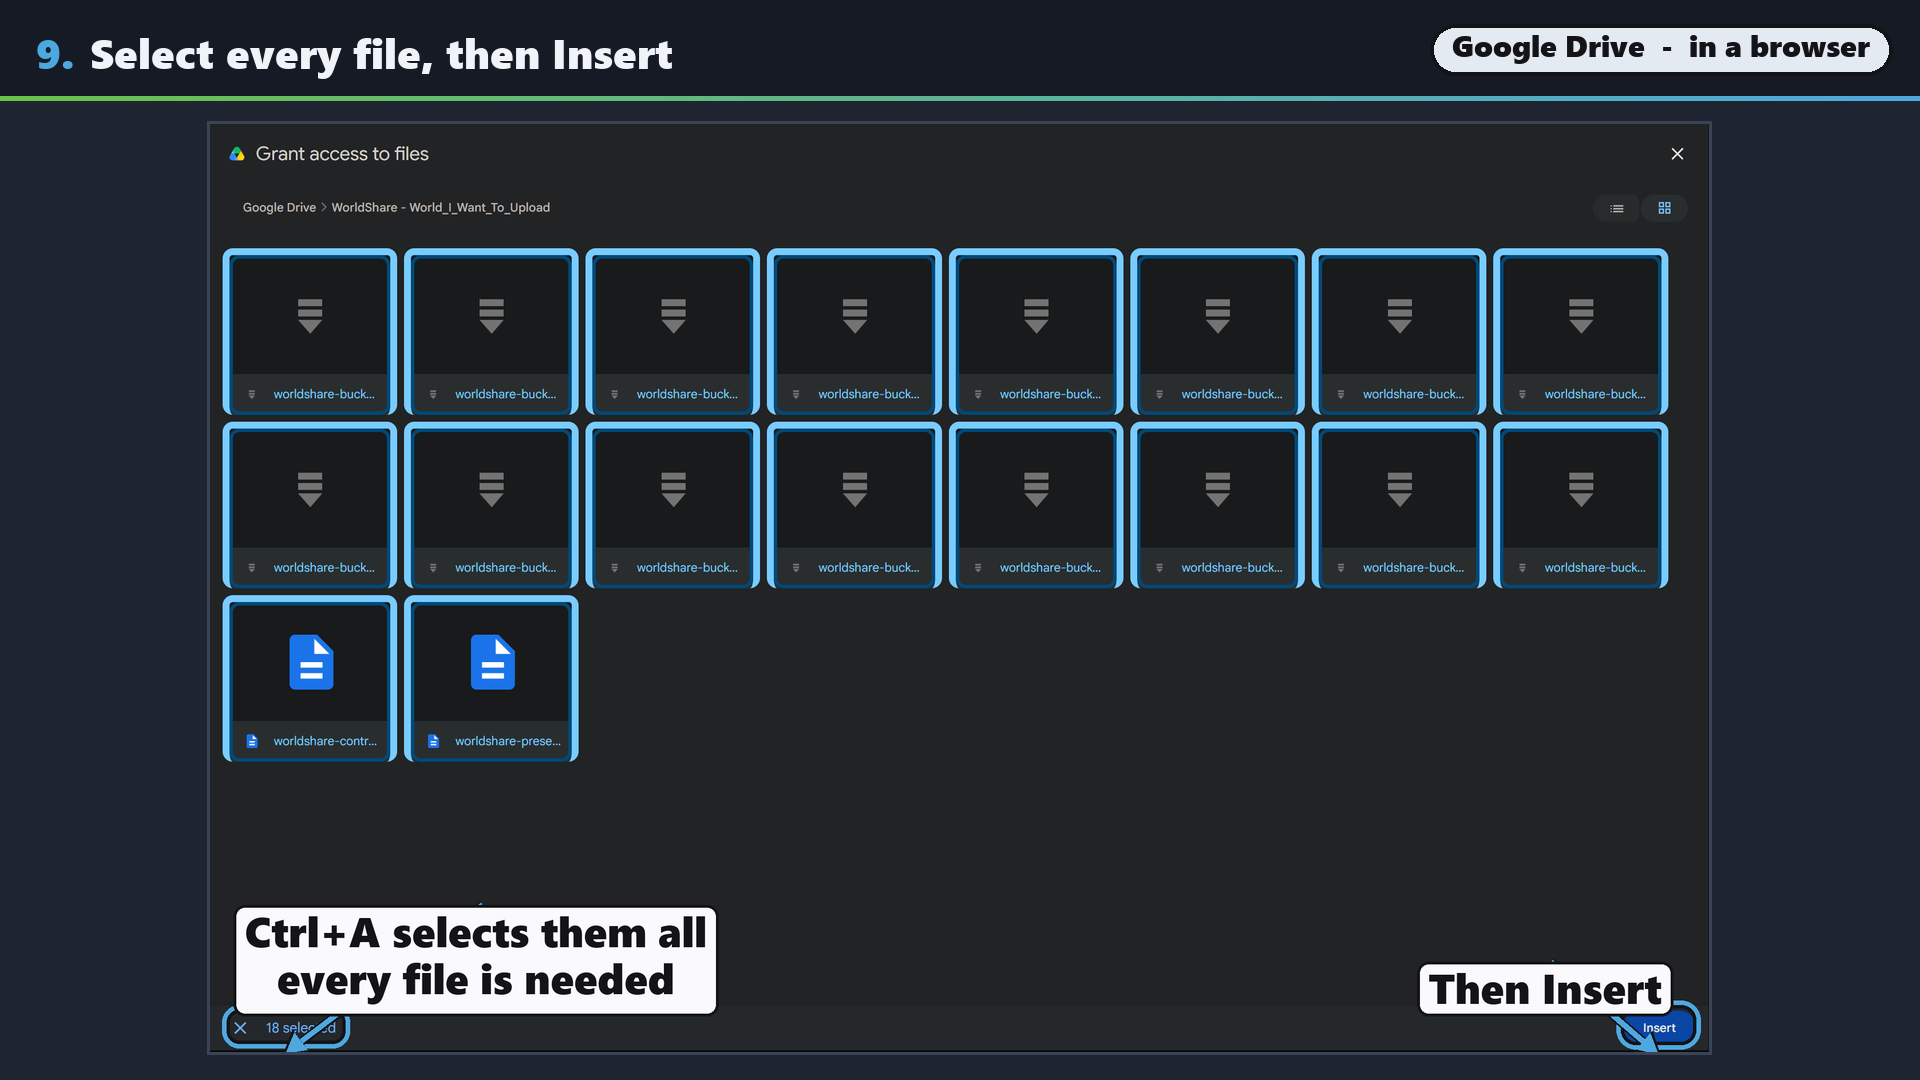
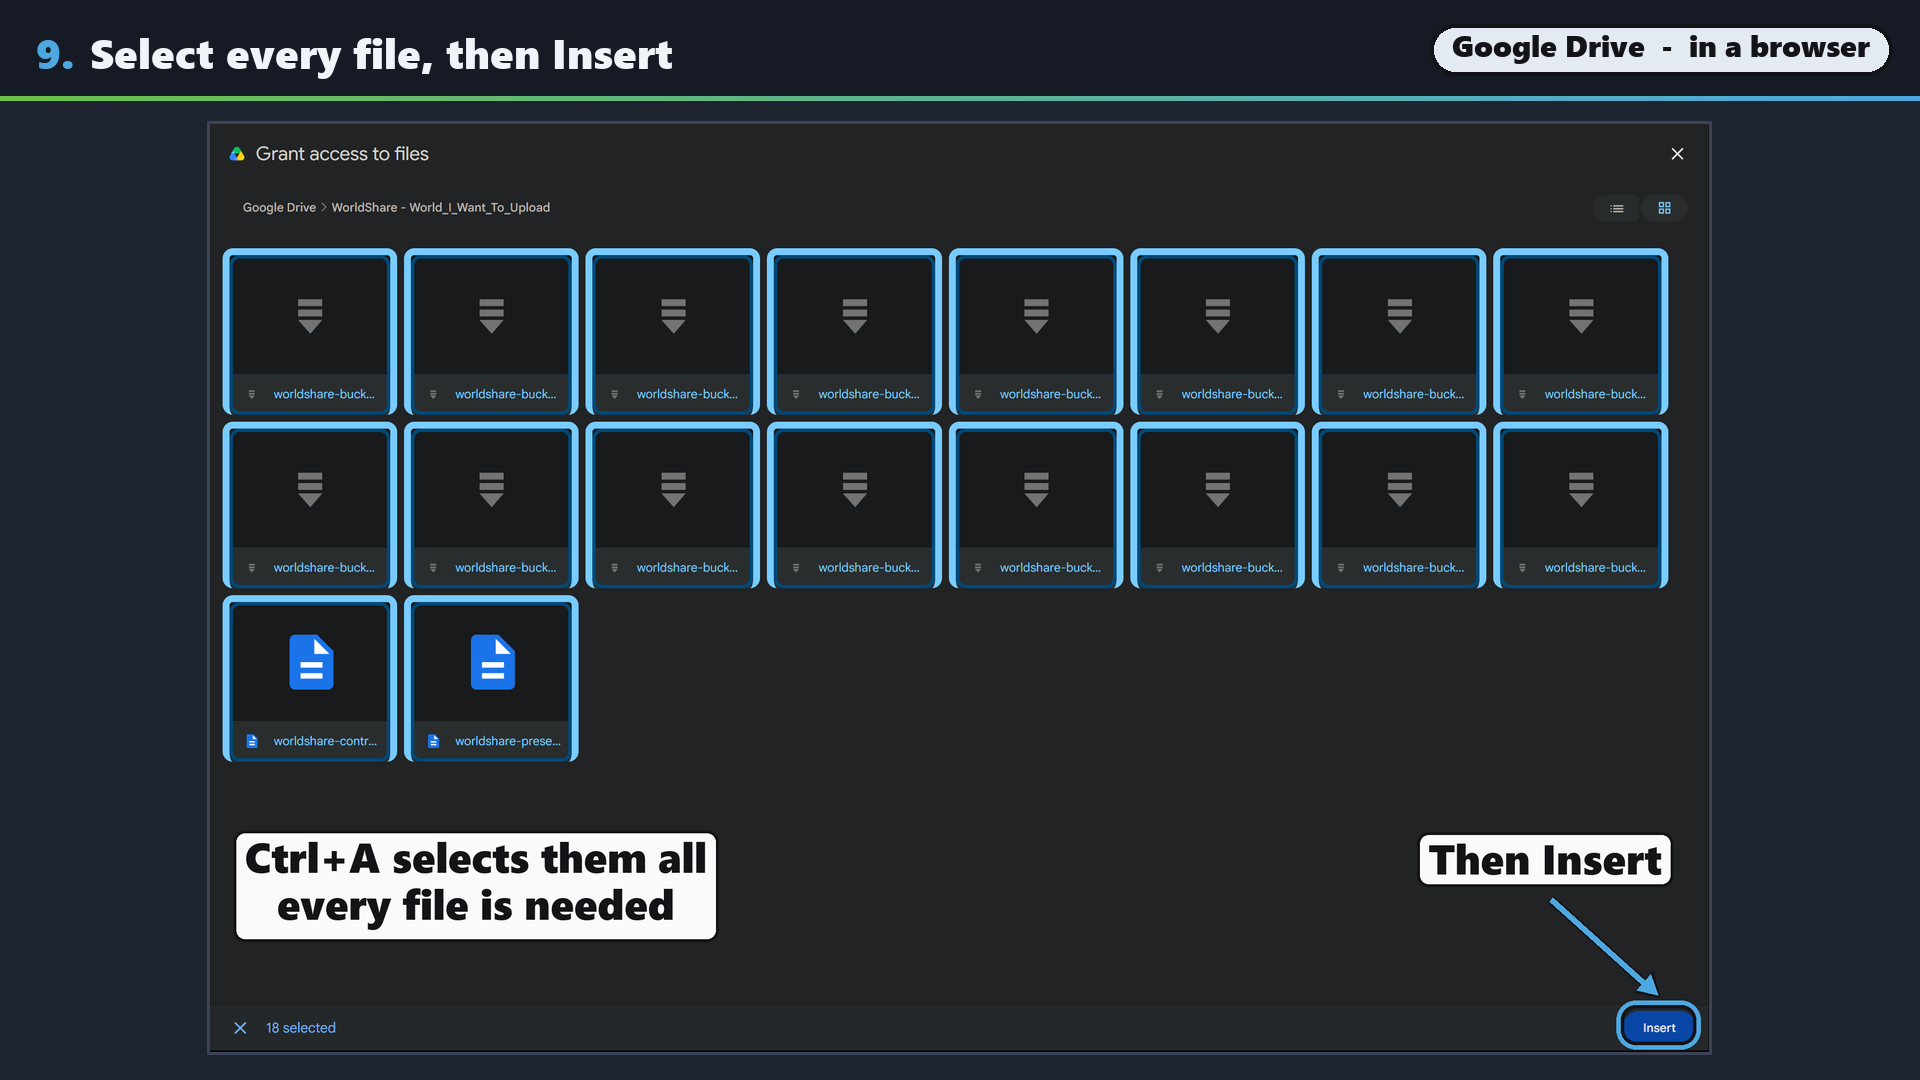
Let a card be a note, and stop it landing on its own target
Two things were wrong with the picker slide. "18 selected" was ringed as though
it were something to click, when it is a readout - so marks can now say
ring=False, arrow=False and keep only the card, positioned by `at` as before.

And "Then Insert" sat on top of the Insert button. The cause was in
place_label: a candidate side was rejected outright if the card fell off the
canvas, and a wide card centred over a button near the right edge always does.
All four sides failed, the clamp fallback ran, and the fallback puts the card
below the target - which is off-shot here, so it clamped back up onto the
button it was labelling.

Now a side slides along the axis it is not pointing from - above/below clamp x,
left/right clamp y - and only the pointing axis can reject. A step can also
widen the gap, which the Insert card uses to clear its own ring.

Checked every labelled slide in both decks afterwards; nothing else moved.

Changed region(s): [[0.0938, 0.7639, 0.375, 0.9778], [0.7188, 0.8556, 0.875, 0.9778], [0.7188, 0.7639, 0.875, 0.825]]

diff --git a/docs/guide/annotate.py b/docs/guide/annotate.py
@@ -228,7 +228,7 @@ def callout(d, xy, text, font, pad=18):
            align="center")
 
 
-def place_label(d, box, text, font, canvas, want, scale, obstacles=()):
+def place_label(d, box, text, font, canvas, want, scale, obstacles=(), gap_spec=60):
     """Put the card somewhere it actually fits, and return where to aim from.
 
     The first version honoured the requested side and let the card fall off the
@@ -239,7 +239,10 @@ def place_label(d, box, text, font, canvas, want, scale, obstacles=()):
     """
     W, H = canvas
     bx, by, bw, bh = box
-    gap = int(60 * scale)
+    # A step can widen this. The default clears most targets, but a ring drawn
+    # around a short control eats into it, and on the picker's Insert button
+    # that left the card sitting on the thing it was pointing at.
+    gap = int(gap_spec * scale)
     cw, ch, _ = measure(d, text, font, int(18 * scale))
     m = int(24 * scale)
 
@@ -266,8 +269,18 @@ def place_label(d, box, text, font, canvas, want, scale, obstacles=()):
         else:
             x, y = bx + bw // 2 - cw // 2, by - gap - ch
             tip = (bx + bw // 2, by - int(14 * scale))
-        if not (m <= x and x + cw <= W - m and m <= y and y + ch <= H - m):
-            continue
+        # Slide along the edge we are not pointing from, rather than giving up.
+        # Centring a wide card over a button near the right edge overflowed, so
+        # every side failed and the label fell through to the clamp below -
+        # which put it on top of the button it was labelling.
+        if side in ("above", "below"):
+            x = min(max(m, x), W - m - cw)
+            if not (m <= y and y + ch <= H - m):
+                continue
+        else:
+            y = min(max(m, y), H - m - ch)
+            if not (m <= x and x + cw <= W - m):
+                continue
         # Don't cover a different button. A card sitting on Refresh while
         # pointing at Add World tells the reader two things at once.
         card = (x, y, x + cw, y + ch)
@@ -343,7 +356,7 @@ def render(step, shrink=1.0, accent=None):
                 others = []
             (cx0, cy0), tip, side = place_label(
                 d, box, a["label"], f_label, (W, H), a.get("side", "right"),
-                scale, obstacles=others)
+                scale, obstacles=others, gap_spec=a.get("gap", 60))
             cw, ch, _ = measure(d, a["label"], f_label, int(18 * scale))
             # Aim from the card's nearest edge, so the arrow always starts on
             # the card rather than floating beside it.
@@ -353,7 +366,9 @@ def render(step, shrink=1.0, accent=None):
                 "below": (cx0 + cw // 2, cy0),
                 "above": (cx0 + cw // 2, cy0 + ch),
             }
-            arrow(d, anchors[side], tip, width=max(3, int(6 * scale)), accent=accent)
+            if a.get("arrow", True):
+                arrow(d, anchors[side], tip, width=max(3, int(6 * scale)),
+                      accent=accent)
             callout(d, (cx0, cy0), a["label"], f_label, pad=int(12 * scale))
 
     if step.get("n"):

diff --git a/docs/guide/spec.py b/docs/guide/spec.py
@@ -142,12 +142,15 @@ GUEST = [
          # Insert one left jammed it into the bottom-right corner, where it
          # collided with its own ring and the shot edge.
          marks=[
-             dict(at=(0.014, 0.959, 0.074, 0.028),
+             # A note, not a target - "18 selected" is a readout, and ringing
+             # it implied it was something to click. The `at` still positions
+             # the card; it just no longer draws a ring or an arrow.
+             dict(at=(0.014, 0.959, 0.074, 0.028), ring=False, arrow=False,
                   label="Ctrl+A selects them all" + chr(10)
                         + "every file is needed",
                   side="above"),
              dict(at=(0.944, 0.954, 0.045, 0.034), label="Then Insert",
-                  side="above"),
+                  side="above", gap=110),
          ]),
 
     # Two rows, one slide: what you see depends on whether e4mc is installed.
